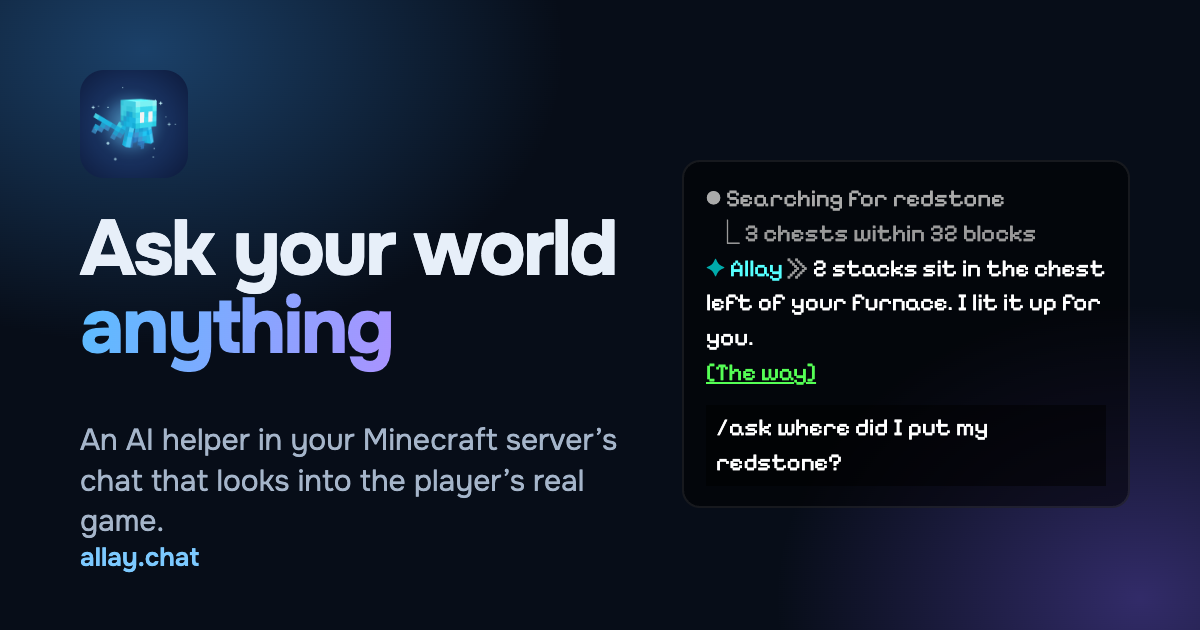
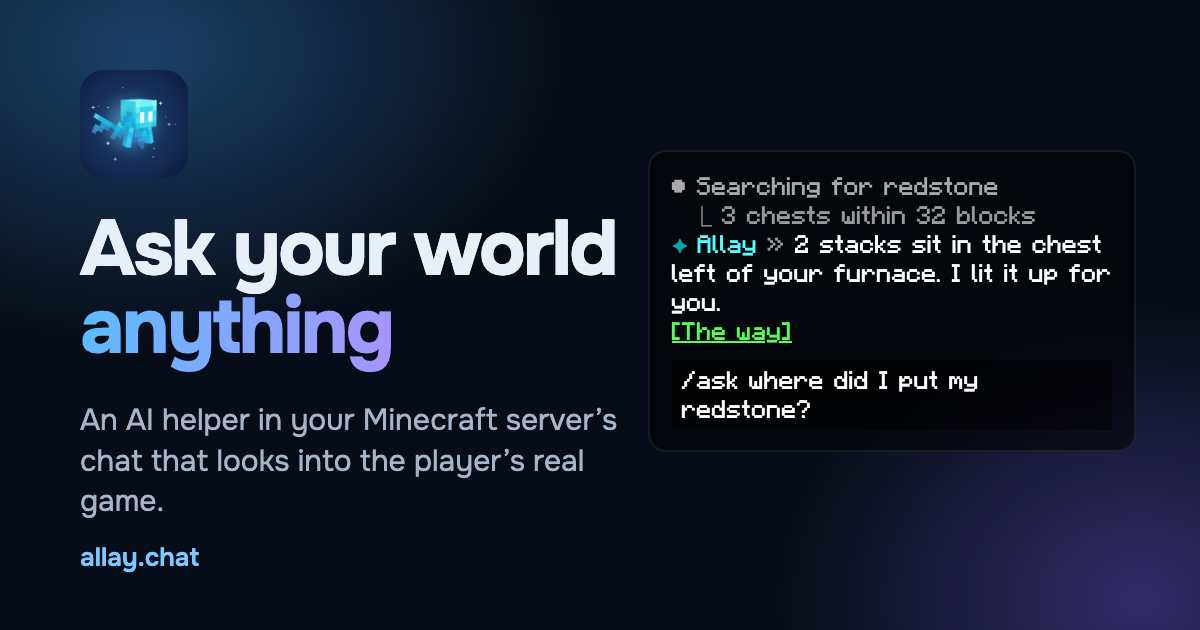
Draw the link preview's chat in the Minecraft font and drop Pixelify Sans

Changed region(s): [[0.555, 0.2714, 0.9558, 0.8143], [0.0617, 0.6333, 0.5242, 0.8444]]

diff --git a/tools/og.html b/tools/og.html
@@ -1,7 +1,7 @@
 <!doctype html>
 <!-- The link preview card, 1200×630. `pnpm og` screenshots it into
      public/og-image.png; edit this file, never the PNG. Fonts come from
-     node_modules, so run `pnpm install` first. -->
+     node_modules and src/assets/fonts, so run `pnpm install` first. -->
 <html lang="en">
   <head>
     <meta charset="UTF-8" />
@@ -12,9 +12,9 @@
         font-weight: 100 900;
       }
       @font-face {
-        font-family: 'Pixelify';
-        src: url('../node_modules/@fontsource-variable/pixelify-sans/files/pixelify-sans-latin-wght-normal.woff2') format('woff2');
-        font-weight: 400 700;
+        font-family: 'Minecraft';
+        src: url('../src/assets/fonts/minecraft.woff2') format('woff2');
+        font-weight: 400;
       }
       html,
       body {
@@ -59,8 +59,8 @@
       p {
         position: absolute;
         left: 80px;
-        top: 420px;
-        width: 560px;
+        top: 400px;
+        width: 580px;
         margin: 0;
         font-size: 30px;
         line-height: 1.35;
@@ -76,15 +76,16 @@
       }
       .chat {
         position: absolute;
-        right: 70px;
-        top: 160px;
-        width: 400px;
+        right: 64px;
+        top: 150px;
+        width: 440px;
         padding: 20px 22px;
         background: rgba(0, 0, 0, 0.55);
         border: 2px solid rgba(255, 255, 255, 0.08);
         border-radius: 18px;
-        font-family: 'Pixelify', monospace;
-        font-size: 24px;
+        font-family: 'Minecraft', monospace;
+        /* Multiples of 4 px keep the font's pixels whole. */
+        font-size: 20px;
         line-height: 1.45;
         color: #fff;
       }
